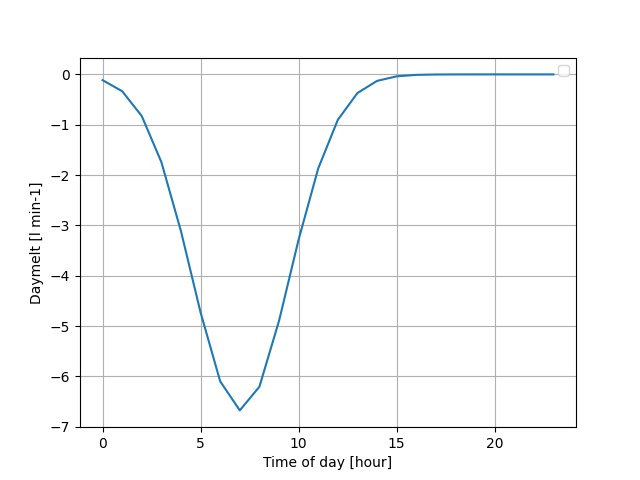
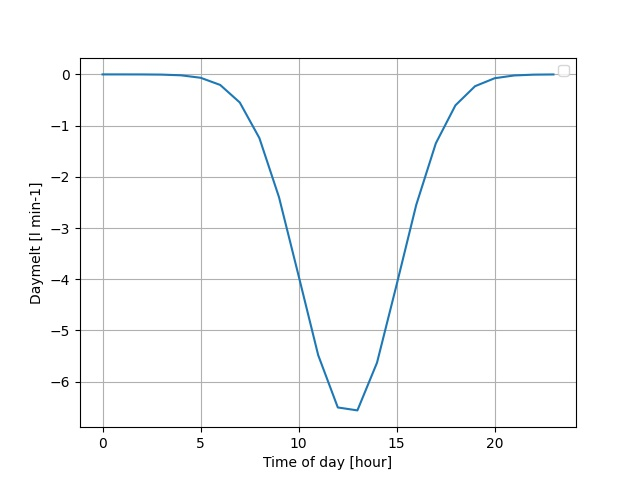
TZ error

diff --git a/src/solar_time_fit.py b/src/solar_time_fit.py
@@ -8,6 +8,7 @@ import xarray as xr
 import math
 from lmfit.models import LinearModel, GaussianModel
 import json
+import pytz
 
 
 L_F = 334 * 1000  # J/kg Fusion
@@ -24,11 +25,19 @@ if __name__ == "__main__":
         with open("data/" + site + "/info.json") as f:
             params = json.load(f)
 
-        times = pd.date_range("2019-02-01", freq="H", periods=1 * 24)
+        times = pd.date_range(
+            "2019-02-01",
+            freq="H",
+            periods=1 * 24,
+        )
+        times -= pd.Timedelta(hours=params["utc"])
         loc = location.Location(
-            params["lat"], params["long"], tz=params["utc"], altitude=params["alt"]
+            params["lat"],
+            params["long"],
+            altitude=params["alt"],
         )
         df = loc.get_clearsky(times=times)
+        df.index += pd.Timedelta(hours=params["utc"])
         df = df.reset_index()
 
         df["hour_minute"] = df["index"].apply(lambda x: datetime_to_int(x))
